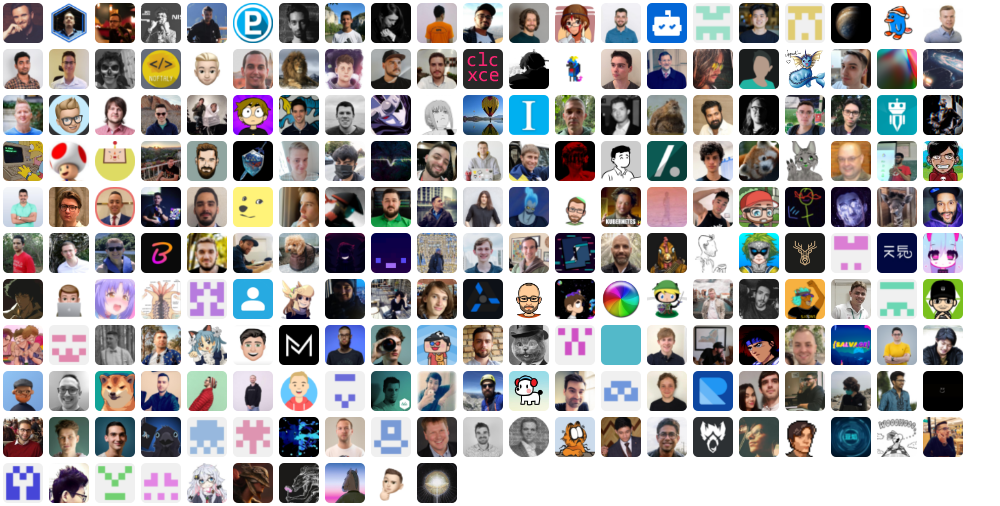
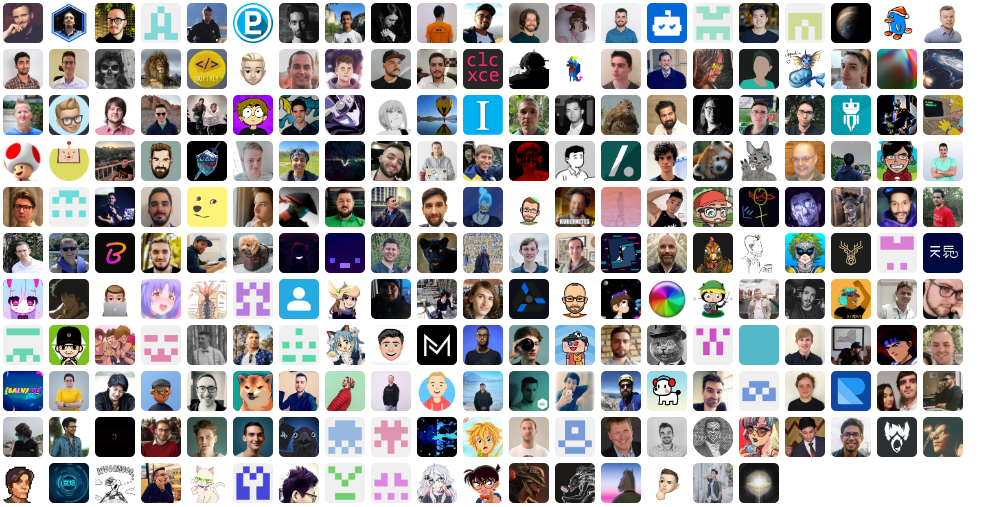
Release 4.18.0

diff --git a/CHANGELOG.md b/CHANGELOG.md
@@ -3,7 +3,26 @@
  All notable changes to this project will be documented in this file. Dates are displayed in UTC.
 
  
-#### [v4.17.0](https://github.com/PKief/vscode-material-icon-theme/compare/v4.16.0...HEAD) 
+#### [v4.18.0](https://github.com/PKief/vscode-material-icon-theme/compare/v4.17.0...v4.18.0) 
+
+> June 5, 2022 
+
+- Support workspace settings [`#1540`](https://github.com/PKief/vscode-material-icon-theme/pull/1540)
+- Add React and Jsx folder icon [`#1519`](https://github.com/PKief/vscode-material-icon-theme/pull/1519)
+- Feature: added folder for Lua language; [`#1542`](https://github.com/PKief/vscode-material-icon-theme/pull/1542)
+- feat: add go.work.sum to list of go-mod files [`#1512`](https://github.com/PKief/vscode-material-icon-theme/pull/1512)
+- Add new `.cts` and `.mts` file extensions [`#1541`](https://github.com/PKief/vscode-material-icon-theme/pull/1541)
+- feat: add site to folder-public [`#1544`](https://github.com/PKief/vscode-material-icon-theme/pull/1544)
+- Add separate file icon for rescript interface [`#1539`](https://github.com/PKief/vscode-material-icon-theme/pull/1539)
+- Add new extension for i18n and Minecraft icon. [`#1538`](https://github.com/PKief/vscode-material-icon-theme/pull/1538)
+- feat: add `.` possibility to kubernetes folders [`#1536`](https://github.com/PKief/vscode-material-icon-theme/pull/1536)
+- feat: Support Playwright component test config files [`#1527`](https://github.com/PKief/vscode-material-icon-theme/pull/1527)
+- associate xlsm with excel icon, closes #1493 [`#1521`](https://github.com/PKief/vscode-material-icon-theme/pull/1521)
+- feat: add support for the graphqlrc.cjs file [`#1513`](https://github.com/PKief/vscode-material-icon-theme/pull/1513)
+- feat: introduce support for the webpack config in mjs [`#1514`](https://github.com/PKief/vscode-material-icon-theme/pull/1514)
+- feat: improve postcss config icon [`#1507`](https://github.com/PKief/vscode-material-icon-theme/pull/1507)
+ 
+#### [v4.17.0](https://github.com/PKief/vscode-material-icon-theme/compare/v4.16.0...v4.17.0) 
 
 > May 6, 2022 
 
